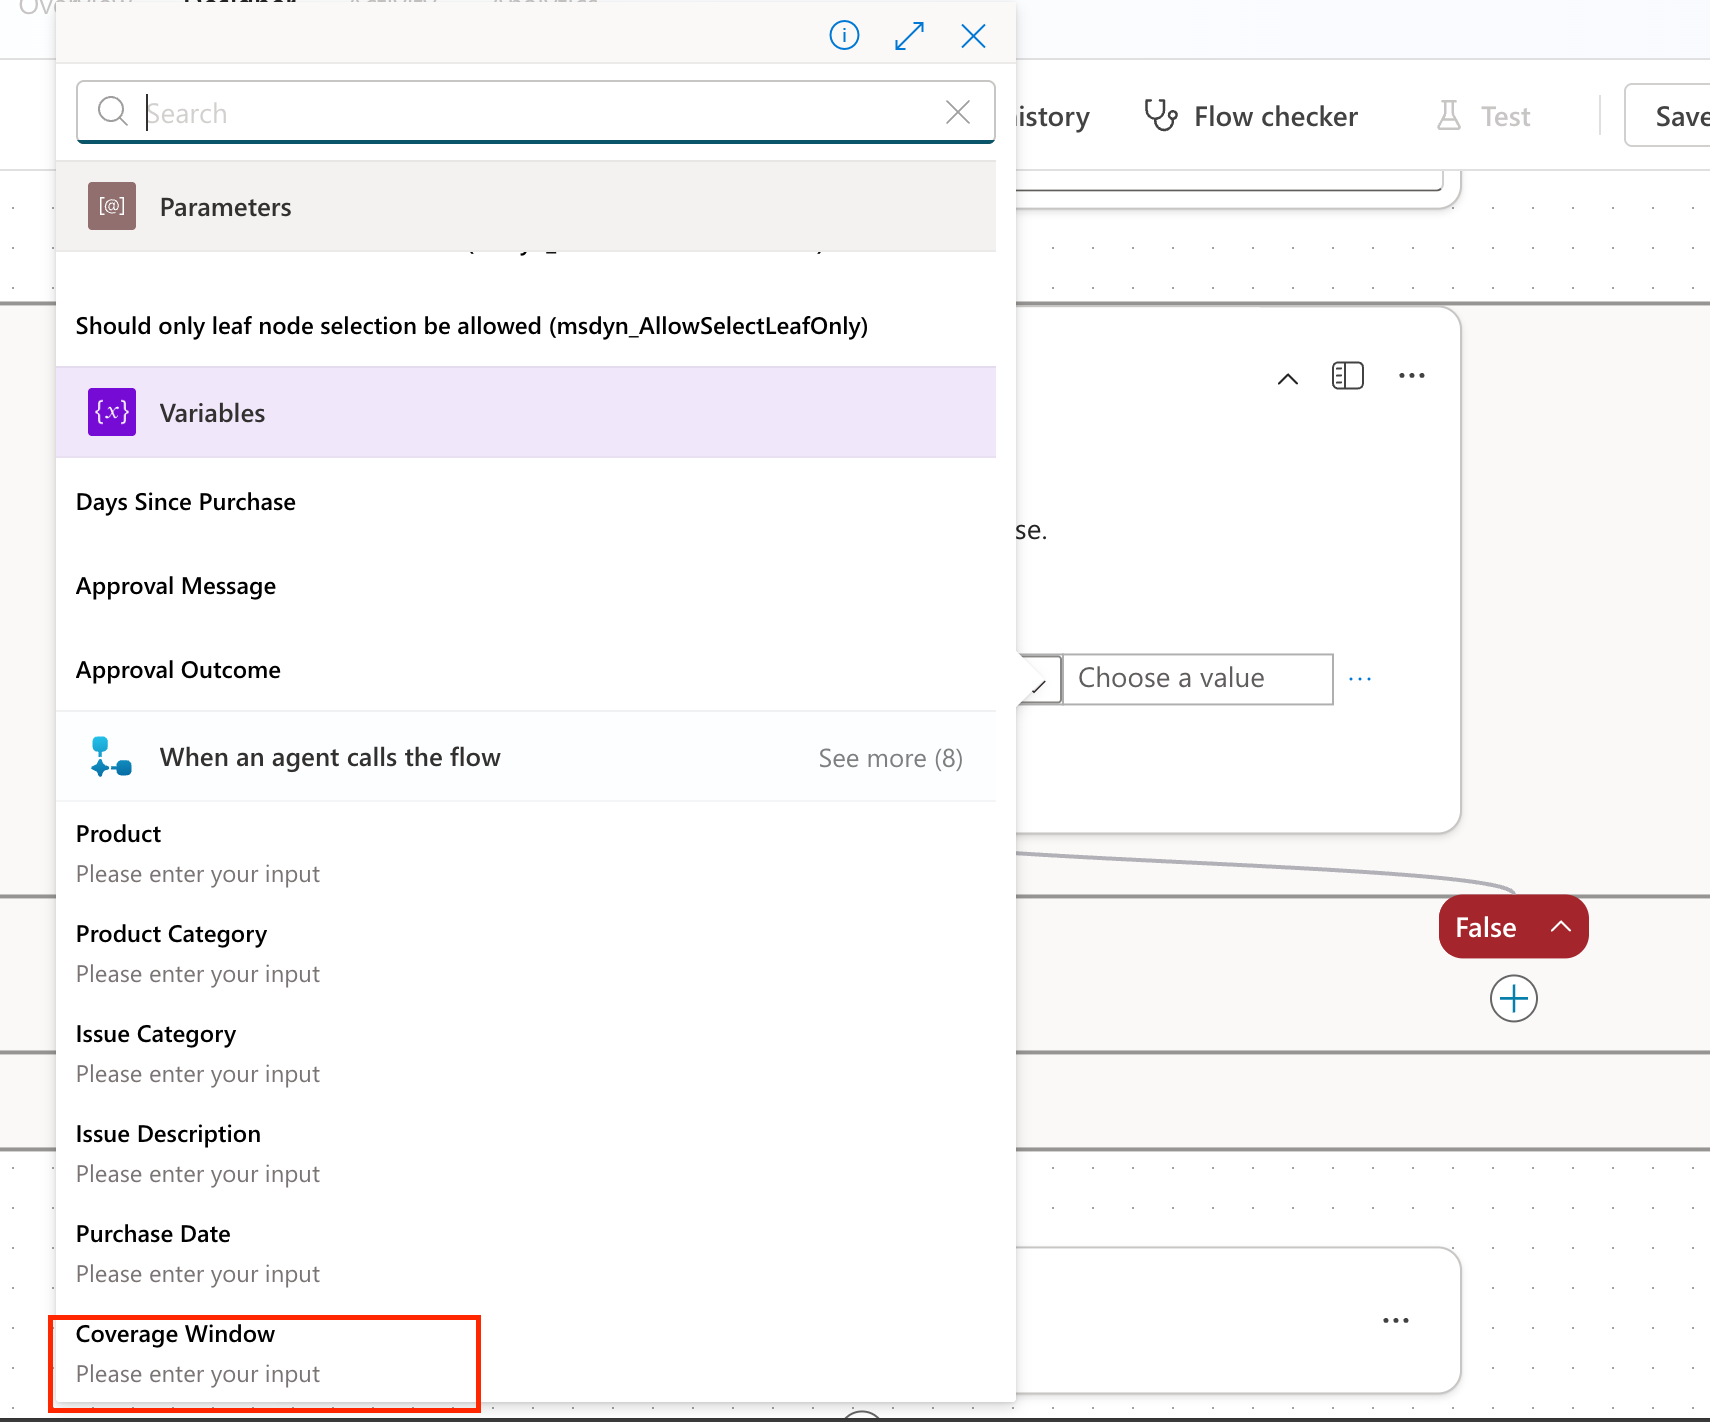
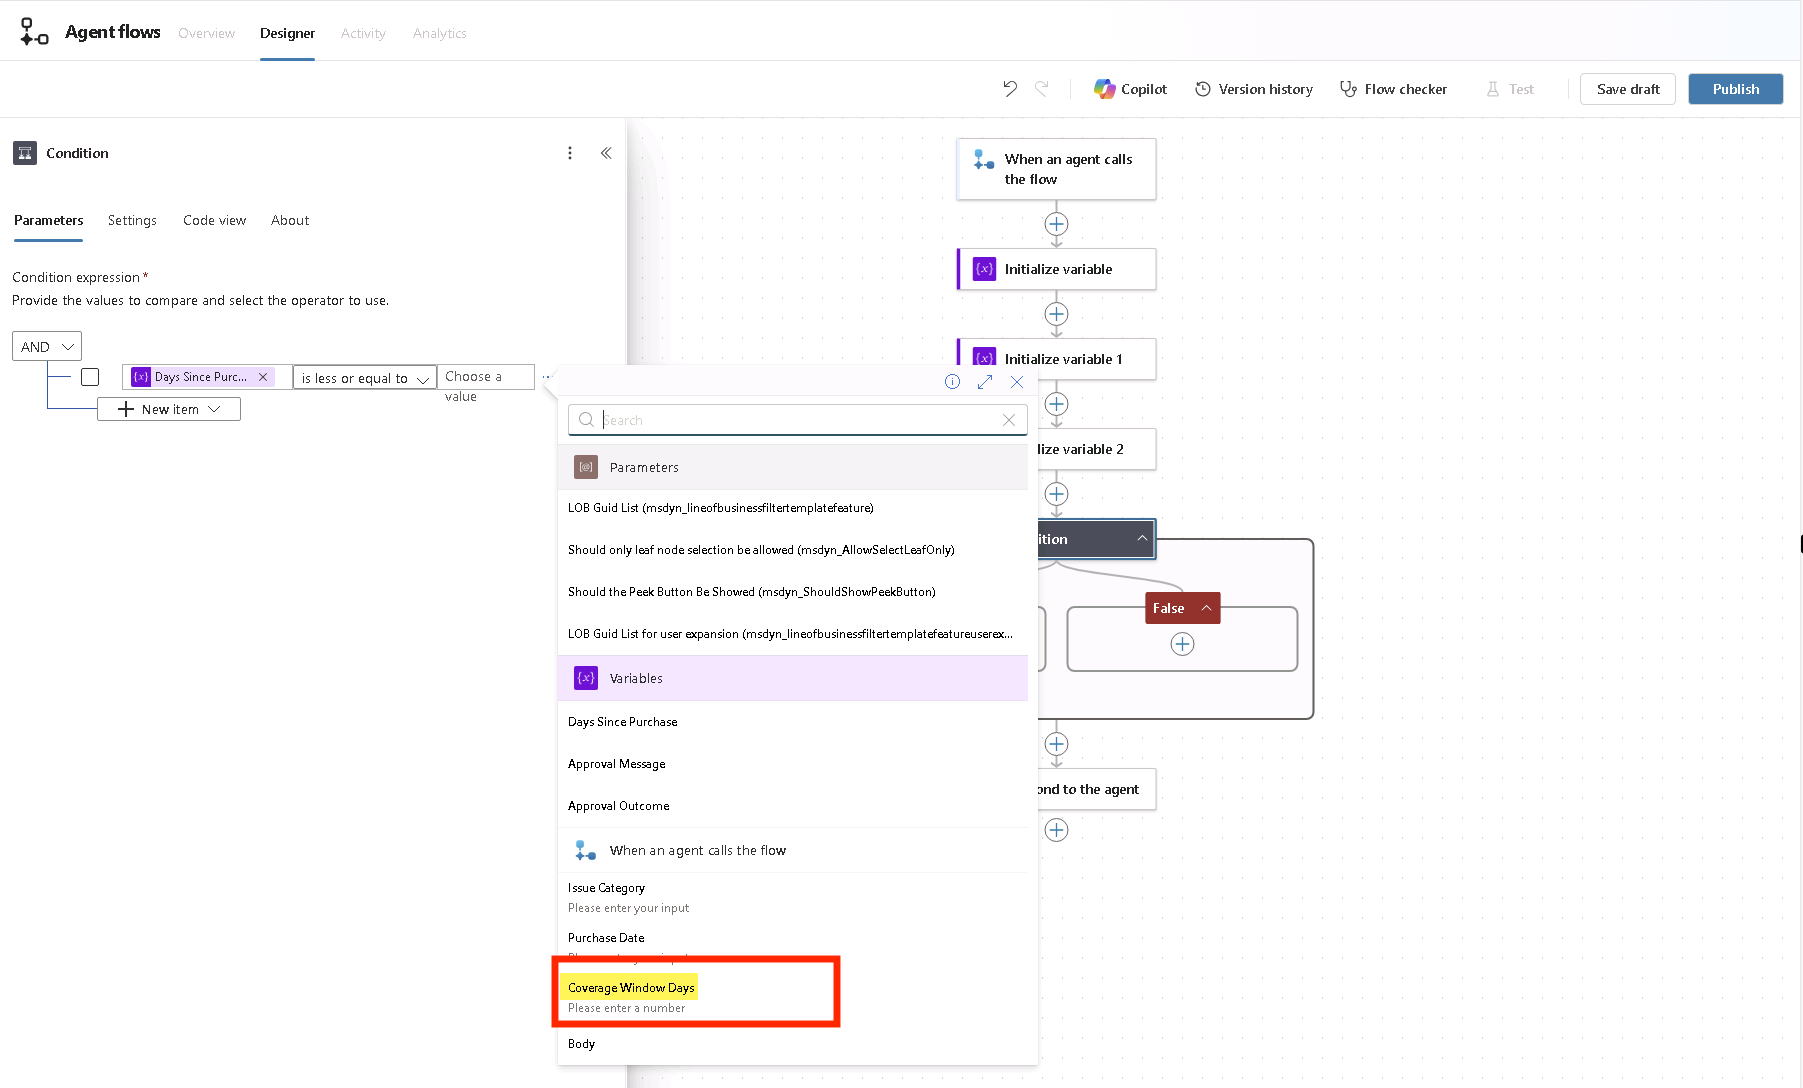
More bug fixes

diff --git a/lab/instructions/README.md b/lab/instructions/README.md
@@ -7,6 +7,8 @@ To start, you're going to setup the foundation for your agent in Copilot Studio.
     <!-- markdownlint-disable-next-line MD034 -->
     +++https://copilotstudio.microsoft.com+++
 
+    ![Open Edge](./assets/OpenEdge.png)
+
 1. Log in with
 
     <!-- markdownlint-disable-next-line MD034 -->
@@ -18,25 +20,17 @@ To start, you're going to setup the foundation for your agent in Copilot Studio.
     <!-- markdownlint-disable-next-line MD034 -->
     **Temporary Access Password:** +++@lab.Variable(TAP)+++
 
-1. If you see a welcome screen like is shown below, select the country/region that you’re in from the dropdown and select Get Started
+1. After logging in, you'll see a message letting you know it's configuring your developer environment. Wait until that finishes (shouldn't take more than a minute)
+
+    ![Dev Environment Setup](./assets/DevEnvSetup.png)
+
+1. If you see a welcome screen like is shown below, select the country/region that you’re in from the dropdown and select **Get Started**
 
     ![pic2.png](./assets/pic2.png)
 
-1. If you see a welcome message as shown in the screenshot below, select Skip.
+1. If you see a welcome message as shown in the screenshot below, select **Skip**.
 
     ![step6.png](./assets/step6.png)
-
-1. If you see the below screen that says **Start building your agent**, click the **three dots (...)** in the upper right hand corner and select **Cancel Agent Creation**
-
-    ![Cancel Agent Creation](./assets/CancelAgentCreation.png)
-
-1. Select **Yes, continue**
-
-    ![Continue](./assets/YesContinue.png)
-
-1. Click the Environment drop down in the top right and then select the Dev environment @ENV{LAB_INSTANCE_ID}
-
-    ![create.png](./assets/step3.png)
 
 1. In the left nav click **+ Create** button to start creating a new agent
 
@@ -57,7 +51,7 @@ To start, you're going to setup the foundation for your agent in Copilot Studio.
     > [!NOTE]
     > It could take a minute or two for the agent to fully configure. You'll see a message that says **Your agent is provisioned!** when it's ready.
 
-1. Now that our agent is created, we need to equip it with knowledge so it can answer questions about our company background, shipping policies, etc. In your agent overview screen, scroll down to the knowledge section and select the **Add Knowledge** tab.
+1. Now that your agent is created, you need to equip it with knowledge so it can answer questions about the company, shipping policies, etc. To do this, in your agent overview screen, scroll down to the knowledge section and select the **Add Knowledge** tab.
 
     ![AddKnowledge.png](./assets/AddKnowledgeBtn.png)
 
@@ -367,13 +361,13 @@ This section was to help you understand how to use MCP in a Copilot Studio agent
 
 ## 3 - Add a Prompt for Warranty Claim Processing
 
-Now that we’ve got an agent that can answer questions from knowledge and integrate with our MCP server for real time operations, we’ll take it a step further: integrating an AI prompt to process warranty claims. In this section, we’ll add a Warranty Policy knowledge source (category-based rules), then use a single AI prompt to turn messy, pasted claim text into clean fields and even intelligently classify the claim.
+Now that we’ve got an agent that can answer questions from knowledge and integrate with our MCP server for real time operations, we’ll give the agent additional capabilities by integrating an AI prompt to process warranty claims. In this section, we’ll add a Warranty Policy knowledge source (category-based rules), then use a single AI prompt to turn messy, pasted claim text into clean fields and even intelligently classify the claim.
 
 1. In your agent overview screen, scroll down to the knowledge section and select the **Add Knowledge** tab.
 
     ![AddKnowledge.png](./assets/AddKnowledgeStep3.png)
 
-1. Download the [Zava Warranty Policy Doc](./assets/Zava_Warranty_Policy.pdf) and drag and drop it onto the canvas.
+1. Click the **select to browse** button and navigate to **D:\LabFiles\KnowledgeDocuments**. Select the **zava_warranty_policy** document.
 
     ![DragAndDrop.png](./assets/DragAndDropFile.png)
 
@@ -513,6 +507,8 @@ Fill with the details of the warranty claim pasted in the chat from the user.
 
 You've just sucessfully added additional functionality to your agent to handle extracting warranty claim details using an AI Prompt. Now, we'll see how to improve this warranty claim review process by adding in an approval process.
 
+===
+
 ## 4 - Add an Agent Flow for Approving Warranty Claims
 
 Now that we have an AI prompt that can classify warranty claims and extract key info, we’re going to wrap this process in a formal, approval path based off of certain conditions like if it's in the warranty period. This is exactly what Agent Flows are for: augmenting your agents with a configurable and predictable decision path. In this section, you’ll build an agent flow that reads the extracted fields, evaluates the policy conditions, and triggers an auto approval if those conditions are met.
@@ -534,7 +530,7 @@ Now that we have an AI prompt that can classify warranty claims and extract key 
 
 1. Select **Add an input**
 
-    ![New Tool](./assets/NewTool2.png)
+    ![Add Input](./assets/FlowAddInput1.png)
 
 1. Select the **Text** option
 
@@ -612,6 +608,12 @@ Now that we have an AI prompt that can classify warranty claims and extract key 
 
     ![Expression with Copilot](./assets/FlowCreateExpressionCopilot.png)
 
+If you don't see the **Create Expression with Copilot** button you can copy and paste the following formula in the formula input.
+
+```text
+sub(int(div(sub(ticks(utcNow()), ticks(triggerBody()?['text_4'])),864000000000)),0)
+```
+
 1. In the box type the following:
 ```Calculate the number of days difference between the current date and the Purchase Date Input```
 
@@ -651,7 +653,7 @@ Select **Create Expression**
 
     ![Select Condition](./assets/FlowDayPurLight.png)
 
-1. Select the **Coverage Window** Variable
+1. Select the **Coverage Window Days** Variable
 
     ![Select Coverage Window](./assets/FlowCovWindowSelect.png)
 
@@ -721,7 +723,7 @@ Select **Create Expression**
 
 1. Search for **variable** and select the **Set Variable** action.
 
-    ![Set Variable](./assets/FlowYesSetVarSelect.png)
+    ![Set Variable](./assets/FlowNoSetVarSelect.png)
 
 1. In the **Name** Dropdown select the **Approval Message** variable.  In the **Value** input type ```The Warranty Claim has been reviewed and it is not within the approved warranty policy guidelines. You can request a review for an exception if you'd like.```.
 
@@ -775,7 +777,19 @@ Select **Create Expression**
 
     ![Variable Filled](./assets/FlowEditBtn.png)
 
-1. Change the **Flow Name** to **Auto Approval Claims**. Put in ```This agent flow evaluates a warranty claim against a condition to determine if it's eligible for auto-approval or needs escalation and returns a response to the agent.``` for the description and click the **Save** button.
+1. Change the **Flow Name** to
+
+    ```text
+    Auto Approval Claims
+    ```
+
+1. In the **Description** input, type:
+
+    ```text
+    This agent flow evaluates a warranty claim against a condition to determine if it's eligible for auto-approval or needs escalation and returns a response to the agent.
+    ```
+
+1. Click the **Save** button.
 
     ![Variable Filled](./assets/FlowName.png)
 
@@ -819,7 +833,11 @@ Select **Create Expression**
 
     ![Variable Filled](./assets/FlowToolCustIssue.png)
 
-1. Type ```Fill with the issue category extracted from the Claims Processing Tool``` in the Description box
+1. In the **Description** text box, type
+
+     ```text
+     Fill with the issue category extracted from the Claims Processing Tool
+     ```
 
     ![Variable Filled](./assets/FlowToolIssDesc.png)
 
@@ -827,7 +845,11 @@ Select **Create Expression**
 
     ![Variable Filled](./assets/FlowToolCustPurcDate.png)
 
-1. Type ```Fill with the Purchase Date extracted from the Claims Processing Tool``` in the Description box
+1. In the **Description** text box, type
+
+     ```text
+     Fill with the Purchase Date extracted from the Claims Processing Tool
+     ```
 
     ![Variable Filled](./assets/FlowToolCustPurDateDesc.png)
 
@@ -835,7 +857,11 @@ Select **Create Expression**
 
     ![Variable Filled](./assets/FlowToolCustCoverage.png)
 
-1. Type ```Fill with the numeric (in days) value of the Coverage Window extracted from the Warranty Policy``` in the Description box
+1. In the **Description** text box, type
+
+     ```text
+     Fill with the numeric (in days) value of the Coverage Window extracted from the Warranty Policy
+     ```
 
     ![Variable Filled](./assets/FlowToolCustDesc.png)
 
